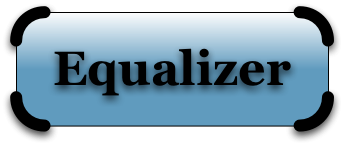
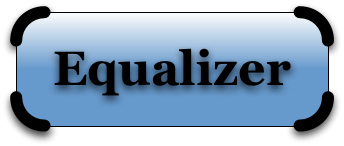
fix non-working (with firefox) base href for compound doc, some color tweaks

Changed region(s): [[0.1453, 0.8493, 0.8721, 0.8767]]

diff --git a/stylesheet.css b/stylesheet.css
@@ -45,7 +45,8 @@ a
 { 
   color: black;
 }
-div.image table, div.image td, div.image tr, div.image a, div.image img {
+
+div.image {
     background-color: transparent;
     text-align: center;
     text-decoration: none;
@@ -78,10 +79,10 @@ div.navigation a, div.subnavigation a
 }
 
 div.navigation a.used { 
-    background-color: #ff9933;
+    background-color: #6699cc;
 }
 div.subnavigation a.used { 
-    background-color: #ffcc66;
+    background-color: #99ccff;
 }
 
 div.subnavigation a 
